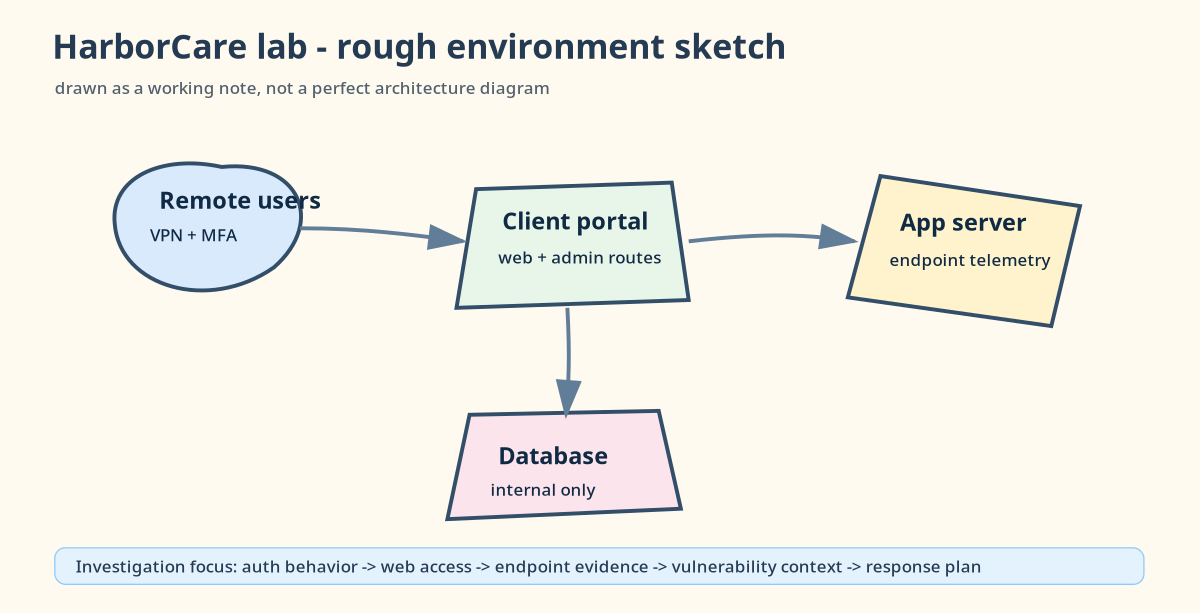
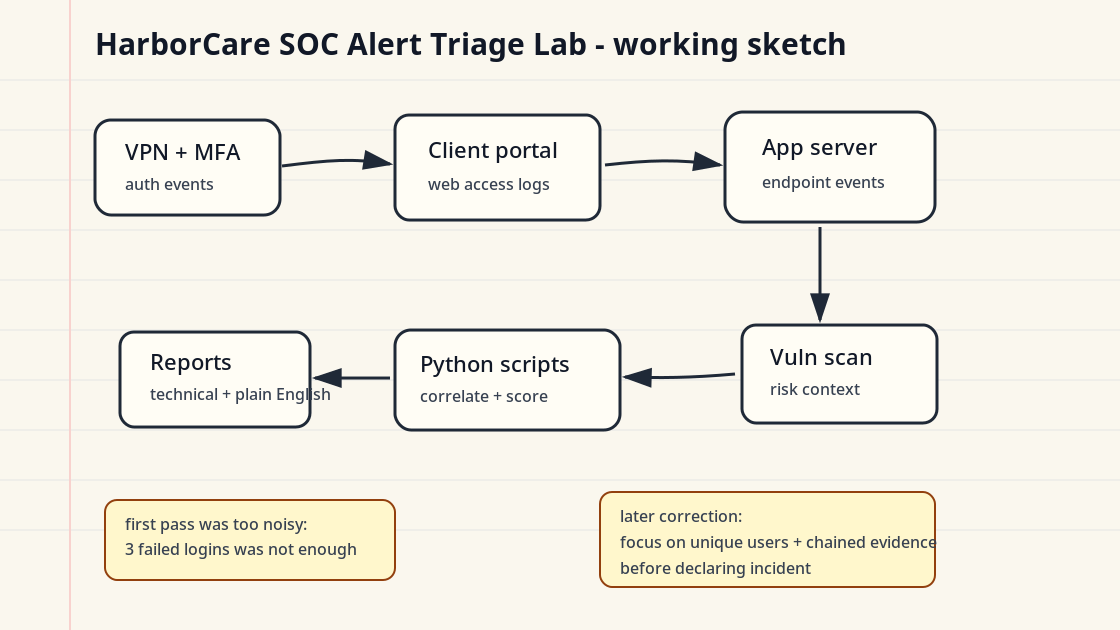
revised cysa project

Changed region(s): [[0.0312, 0.031, 0.9375, 0.9608], [0.6875, 0.217, 0.7812, 0.248]]

diff --git a/README.md b/README.md
@@ -1,36 +1,69 @@
 <div align="center">
 
-# HarborCare Alert Triage Lab
+# HarborCare SOC Alert Triage Lab
 
 **A hands-on blue-team portfolio project for CySA+-level skills**  
-Security operations + vulnerability prioritization + incident response + plain-English reporting
+Security operations + alert triage + vulnerability prioritization + incident response + plain-English reporting
 
-![Python](https://img.shields.io/badge/Python-3.10%2B-blue) ![Dataset](https://img.shields.io/badge/Dataset-Synthetic-lightgrey) ![Focus](https://img.shields.io/badge/Focus-Defensive%20Security-green) ![Status](https://img.shields.io/badge/Status-Portfolio%20Ready-brightgreen)
+![Python](https://img.shields.io/badge/Python-3.10%2B-blue) ![Dataset](https://img.shields.io/badge/Dataset-Synthetic-lightgrey) ![Focus](https://img.shields.io/badge/Focus-Defensive%20Security-green) ![Status](https://img.shields.io/badge/Status-Portfolio%20Ready-brightgreen) ![SOC](https://img.shields.io/badge/SOC-Alert%20Triage-orange)
 
 </div>
 
 ---
 
-## Why I built this
+## What this project demonstrates
 
-I wanted a project that felt closer to the work a junior security analyst might actually do: review messy logs, separate noise from risk, explain why something matters, and recommend the next action without sounding dramatic.
+![Example SOC alert](docs/images/screenshot-example-alert.png)
 
-This is not an exploit lab. It is a defensive investigation using synthetic data from a fictional healthcare SaaS company called **HarborCare**. The scenario is simple on purpose: an employee account shows signs of password spraying, MFA fatigue, suspicious admin export activity, and risky endpoint behavior on an application server.
+This project is a small SOC-style investigation using synthetic logs from a fictional healthcare SaaS company called **HarborCare**. I built it to show how I would move from raw alerts to a defensible analyst decision: what happened, why it matters, what evidence supports it, and what I would recommend next.
 
-The goal was to show practical CySA+-style skills without pretending to be a senior incident responder.
+I kept the scope realistic for a recent CySA+ certificate holder. This is not an exploit lab, and it is not meant to make me look like a senior incident responder. The point is to show practical analyst habits: log review, alert triage, basic detection logic, vulnerability prioritization, incident documentation, and clear communication.
 
 ---
 
-## What this project demonstrates
+## Skills used
 
-| Skill area | What I did in the project | Where to look |
-|---|---|---|
-| Security operations | Parsed auth, web, and endpoint logs; wrote detection logic; triaged alerts | `src/analyze_security_events.py`, `rules/detection_rules.yml` |
-| Vulnerability management | Prioritized findings using CVSS plus business context, exposure, exploitability, and asset value | `src/prioritize_vulnerabilities.py`, `outputs/prioritized_vulnerabilities.csv` |
-| Incident response | Built an evidence timeline, recommended containment, and documented lessons learned | `docs/incident_report.md`, `docs/analyst_journal.md` |
-| Reporting and communication | Wrote a technical report and a non-technical explanation | `docs/nontechnical_explainer.md` |
-| Python scripting | Used standard-library Python so the project is easy to run and review | `src/` |
-| Detection tuning | Documented where my first logic was too noisy and how I corrected it | `docs/analyst_journal.md` |
+| Skill | How it shows up here |
+|---|---|
+| Log analysis | Reviewed synthetic VPN, MFA, web access, and endpoint logs. |
+| Alert triage | Separated normal noise from suspicious patterns and chained evidence. |
+| Incident documentation | Wrote a technical incident report and a plain-English explainer. |
+| MITRE ATT&CK | Mapped suspicious behaviors to relevant ATT&CK techniques. |
+| Vulnerability prioritization | Ranked findings using CVSS plus exposure, exploitability, and business context. |
+| Python | Parsed CSV data, generated alert summaries, scored vulnerabilities, and produced reports. |
+| Detection engineering | Built and tuned simple detection logic instead of relying only on raw log volume. |
+| Security reporting | Explained risk, impact, and next steps in a way a non-technical person could follow. |
+
+**Estimated time to build/recreate:** ~20 hours over two weeks.  
+I would adjust this line if I spend more time extending the lab with Splunk, Elastic, or a video walkthrough.
+
+---
+
+## Quick visual tour
+
+| Raw alert output | Terminal run |
+|---|---|
+| ![CSV alert output](docs/images/screenshot-csv-output.png) | ![Terminal run](docs/images/screenshot-terminal-run.png) |
+
+| Incident report | Project folder |
+|---|---|
+| ![Incident report screenshot](docs/images/screenshot-report-excerpt.png) | ![Folder structure screenshot](docs/images/screenshot-folder-structure.png) |
+
+| Timeline | Risk heatmap |
+|---|---|
+| ![Incident timeline](docs/images/incident-timeline.png) | ![Risk heatmap](docs/images/risk-heatmap.png) |
+
+---
+
+## Why I built this
+
+A lot of beginner cybersecurity projects either look too simple or try to look more advanced than they really are. I wanted this one to sit in the middle: professional enough for a recruiter to skim, but honest enough that I could explain every line in an interview.
+
+The scenario is simple on purpose: an employee account shows signs of password spraying, MFA fatigue, suspicious admin export activity, and risky endpoint behavior on an application server.
+
+The investigation starts with one basic question:
+
+> Is this just noisy authentication activity, or is there enough evidence to declare an incident?
 
 ---
 
@@ -46,9 +79,22 @@ The goal was to show practical CySA+-style skills without pretending to be a sen
 - Endpoint logs are available for the app server.
 - Vulnerability scan output exists, but it needs prioritization.
 
-The case starts with a basic question:
+---
 
-> Is this just noisy authentication activity, or is there enough evidence to declare an incident?
+## One example SOC alert
+
+| Field | Detail |
+|---|---|
+| Alert | MFA fatigue pattern followed by approval |
+| Severity | High |
+| Source IP | 203.0.113.77 |
+| Affected user | maria.santos |
+| Evidence | 3 denied MFA prompts before an approved VPN login from the same source and an unknown device. |
+| Reason fired | Repeated MFA prompts followed by approval can indicate MFA fatigue, especially when it follows password spraying. |
+| Recommended action | Revoke sessions, confirm with the user, reset password, review exports, and add MFA push limits / number matching. |
+| MITRE ATT&CK | T1621 - Multi-Factor Authentication Request Generation |
+
+I would not declare an incident from this one alert alone. What made the case stronger was the chain: password spray activity, MFA fatigue, successful VPN login, scripted admin export, and suspicious endpoint process behavior.
 
 ---
 
@@ -119,6 +165,12 @@ flowchart LR
 
 ### Vulnerability priority view
 
+The first version was basically a CVSS view. It helped, but it did not explain why an internet-facing app server was more urgent than a quieter internal finding.
+
+![Early heatmap](docs/images/early-risk-heatmap.png)
+
+The improved version adds business and exposure context.
+
 ![Risk heatmap](docs/images/risk-heatmap.png)
 
 ---
@@ -127,9 +179,9 @@ flowchart LR
 
 The first version of my password-spray logic was too sensitive. I flagged three failed logins in ten minutes, but that caught normal user mistakes. I changed the logic to focus on one source IP failing across five or more unique users in twenty minutes.
 
-That correction made the project better because it moved the rule from “technically true” to “actually useful for an analyst.”
+I also reconsidered the MFA threshold. My first idea was to treat a few denied prompts followed by approval as high confidence by itself. That was too aggressive. The alert became much more meaningful only after it lined up with the same risky source IP, the successful VPN login, scripted export activity, and endpoint evidence.
 
-I kept the mistake in `docs/analyst_journal.md` because I think the tuning process is more honest than pretending the first idea was perfect.
+Those corrections made the project better because they moved the work from “technically true” to “actually useful for an analyst.” I kept the mistakes in `docs/analyst_journal.md` because the tuning process is more honest than pretending the first idea was perfect.
 
 ---
 

diff --git a/docs/analyst_journal.md b/docs/analyst_journal.md
@@ -44,6 +44,21 @@ My first incident report was mostly alert names, MITRE mappings, and log evidenc
 
 I added an executive summary, a plain-English risk explanation, and a short containment plan. I kept the technical evidence, but I stopped leading with it.
 
+
+## Iteration 4 - I reconsidered the MFA threshold
+
+My first MFA fatigue idea was too blunt:
+
+> Alert on 2 denied prompts followed by 1 approval.
+
+That catches real risk, but it can also catch normal behavior. A user might deny a prompt because they were not ready, had a bad phone signal, or tapped the wrong option.
+
+### Correction
+
+I kept the alert, but I changed how I treated it. Two or three denied prompts are a signal, not a full conclusion. I only treated the case as high confidence after the MFA activity lined up with the same source IP, a successful VPN login, scripted export behavior, and endpoint evidence.
+
+That was a useful lesson: sometimes the right fix is not only changing the rule. It is changing how much confidence I assign to the rule.
+
 ## What I learned
 
 - Detection logic needs tuning, not just writing.

diff --git a/docs/example_soc_alert.md b/docs/example_soc_alert.md
@@ -1,0 +1,18 @@
+# Example SOC Alert - AUTH-002
+
+This is the single alert I would use to explain the investigation path in an interview.
+
+| Field | Detail |
+|---|---|
+| Alert | MFA fatigue pattern followed by approval |
+| Severity | High |
+| Source IP | 203.0.113.77 |
+| Affected user | maria.santos |
+| Evidence | 3 denied MFA prompts before an approved VPN login from the same source and an unknown device. |
+| Reason fired | Repeated MFA prompts followed by approval can indicate MFA fatigue, especially when it follows password spraying. |
+| Recommended action | Revoke sessions, confirm with the user, reset password, review exports, and add MFA push limits / number matching. |
+| MITRE ATT&CK | T1621 - Multi-Factor Authentication Request Generation |
+
+## Why this alert mattered
+
+By itself, this alert would still need validation. The reason I escalated it was the chain of evidence: password spray activity came first, then MFA fatigue, then a successful login, then scripted admin export activity, then suspicious endpoint behavior on the application server.

diff --git a/outputs/example_soc_alert.md b/outputs/example_soc_alert.md
@@ -1,0 +1,18 @@
+# Example SOC Alert - AUTH-002
+
+This is the single alert I would use to explain the investigation path in an interview.
+
+| Field | Detail |
+|---|---|
+| Alert | MFA fatigue pattern followed by approval |
+| Severity | High |
+| Source IP | 203.0.113.77 |
+| Affected user | maria.santos |
+| Evidence | 3 denied MFA prompts before an approved VPN login from the same source and an unknown device. |
+| Reason fired | Repeated MFA prompts followed by approval can indicate MFA fatigue, especially when it follows password spraying. |
+| Recommended action | Revoke sessions, confirm with the user, reset password, review exports, and add MFA push limits / number matching. |
+| MITRE ATT&CK | T1621 - Multi-Factor Authentication Request Generation |
+
+## Why this alert mattered
+
+By itself, this alert would still need validation. The reason I escalated it was the chain of evidence: password spray activity came first, then MFA fatigue, then a successful login, then scripted admin export activity, then suspicious endpoint behavior on the application server.

diff --git a/CHANGELOG.md b/CHANGELOG.md
@@ -1,5 +1,16 @@
 # Changelog
 
+## v2.0.0 - README and presentation pass
+
+- Renamed the project to **HarborCare SOC Alert Triage Lab** so the SOC focus is clearer.
+- Moved a visual example near the top of the README for faster skimming.
+- Added a Skills Used section and estimated build/recreate time.
+- Added screenshot-style visuals for the CSV output, terminal run, SOC alert, report excerpt, heatmap, timeline, and folder layout.
+- Reworked the architecture sketch into a more notebook-style diagram.
+- Added one SOC-ticket-style alert example.
+- Added another analyst journal entry about reconsidering the MFA threshold.
+- Added an early risk view beside the improved heatmap to show iteration.
+
 ## v1.0.0 - Portfolio-ready case
 
 - Added synthetic auth, web, endpoint, asset, and vulnerability data.

diff --git a/docs/nontechnical_explainer.md b/docs/nontechnical_explainer.md
@@ -1,4 +1,4 @@
-# Non-Technical Explainer - HarborCare Alert Triage Lab
+# Non-Technical Explainer - HarborCare SOC Alert Triage Lab
 
 ## The simple version
 

diff --git a/docs/case_study.md b/docs/case_study.md
@@ -1,4 +1,4 @@
-# Case Study - HarborCare Suspicious Access Review
+# Case Study - HarborCare SOC Alert Triage Review
 
 ## The starting point
 
